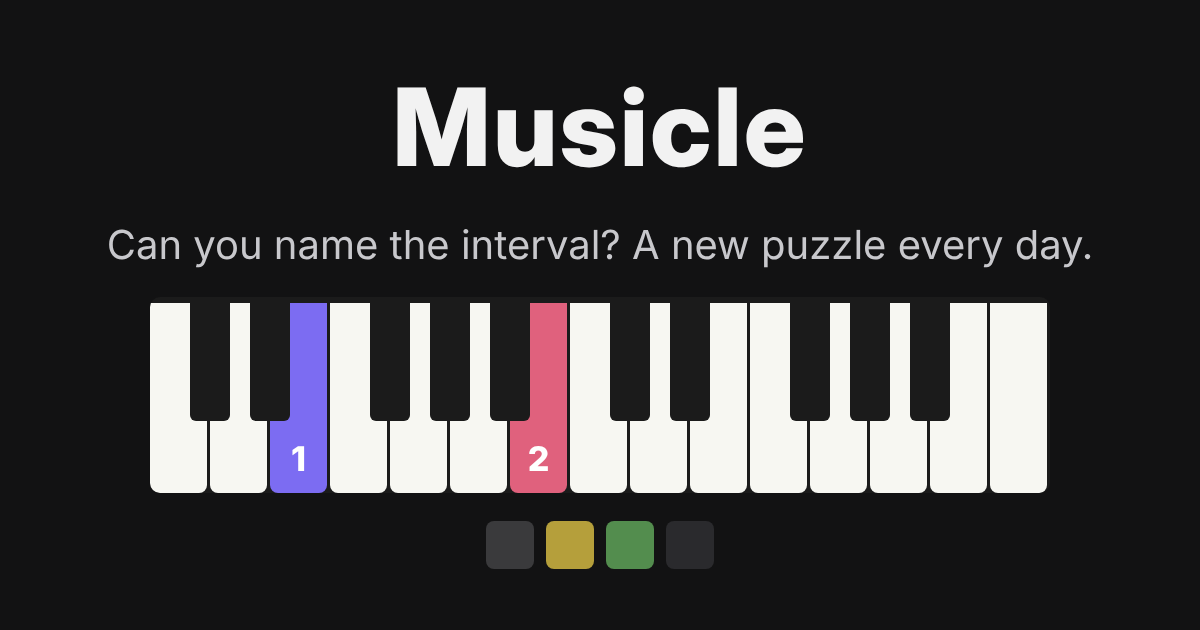
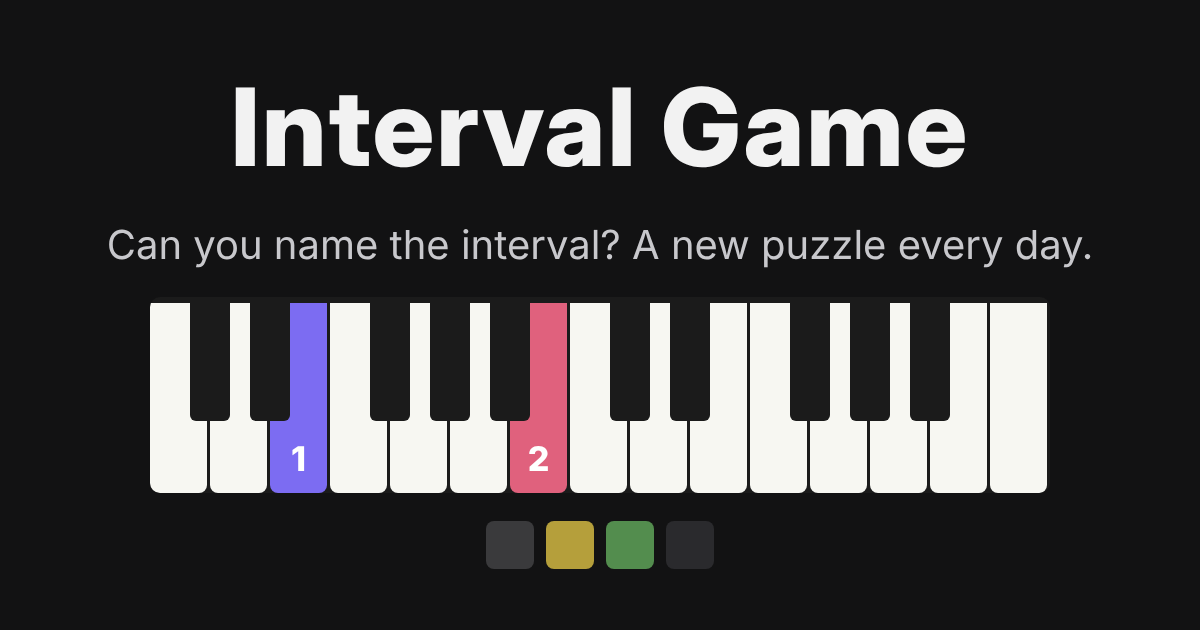
Rename the game to Interval Game
New name in the title, header, share text, manifest, link-preview image
and README. Saved progress moves from the musicle: to the intervalgame:
localStorage prefix automatically, and old transfer codes still import.
The header title now scales with the screen width to fit the longer name.

Claude-Session: https://claude.ai/code/session_01WpjxVCiMkAZwC4f3CwgJXi

Changed region(s): [[0.185, 0.1206, 0.8017, 0.2714]]

diff --git a/index.html b/index.html
@@ -3,21 +3,21 @@
   <head>
     <meta charset="utf-8" />
     <meta name="viewport" content="width=device-width, initial-scale=1, viewport-fit=cover" />
-    <title>Musicle · Daily ear training game</title>
+    <title>Interval Game · Daily ear training</title>
     <meta name="description" content="A daily ear training game: listen to two piano notes and name the interval, name the chord, or find the chord's degree in the key. New puzzles every day." />
     <link rel="canonical" href="https://intervalgame.com/" />
     <meta name="theme-color" content="#121213" media="(prefers-color-scheme: dark)" />
     <meta name="theme-color" content="#ffffff" media="(prefers-color-scheme: light)" />
 
     <meta property="og:type" content="website" />
-    <meta property="og:site_name" content="Musicle" />
-    <meta property="og:title" content="Musicle · Can you name the interval?" />
+    <meta property="og:site_name" content="Interval Game" />
+    <meta property="og:title" content="Interval Game · Can you name the interval?" />
     <meta property="og:description" content="A daily ear training game. Listen to two piano notes, name the interval in 4 guesses. New puzzle every day." />
     <meta property="og:url" content="https://intervalgame.com/" />
     <meta property="og:image" content="https://intervalgame.com/images/og.png" />
     <meta property="og:image:width" content="1200" />
     <meta property="og:image:height" content="630" />
-    <meta property="og:image:alt" content="Musicle: a piano keyboard with two highlighted keys and the question: what's the interval?" />
+    <meta property="og:image:alt" content="Interval Game: a piano keyboard with two highlighted keys and the question: what's the interval?" />
     <meta name="twitter:card" content="summary_large_image" />
 
     <link rel="icon" href="images/icon.svg" type="image/svg+xml" />
@@ -37,7 +37,7 @@
           <svg viewBox="0 0 24 24" width="22" height="22" aria-hidden="true"><path fill="currentColor" d="M19.4 13a7.6 7.6 0 0 0 0-2l2.1-1.6-2-3.5-2.5 1a7.4 7.4 0 0 0-1.7-1L15 3.3h-4l-.4 2.6a7.4 7.4 0 0 0-1.7 1l-2.5-1-2 3.5L6.6 11a7.6 7.6 0 0 0 0 2l-2.1 1.6 2 3.5 2.5-1a7.4 7.4 0 0 0 1.7 1l.4 2.6h4l.4-2.6a7.4 7.4 0 0 0 1.7-1l2.5 1 2-3.5ZM13 15.5a3.5 3.5 0 1 1 0-7 3.5 3.5 0 0 1 0 7Z" transform="translate(-1 0)" /></svg>
         </button>
       </div>
-      <h1>Musicle</h1>
+      <h1>Interval Game</h1>
       <div class="topbar-side end">
         <div class="language-menu">
           <button class="icon-button flag-button" id="language-button" aria-haspopup="menu" aria-expanded="false" data-i18n-aria="language" aria-label="Language"></button>

diff --git a/tests/games.test.js b/tests/games.test.js
@@ -105,11 +105,11 @@ test('game status and share text', () => {
   assert.equal(gameStatus(puzzle, [1, 4]), 'playing');
   assert.equal(gameStatus(puzzle, [1, 3]), 'won');
   assert.equal(gameStatus(puzzle, [1, 2, 4, 5]), 'lost');
-  assert.equal(shareText(puzzle, [12, 4, 3]), `Musicle #3 3/${MAX_ATTEMPTS}\n🎹 ⬛🟨🟩`);
-  assert.equal(shareText(puzzle, [1, 2, 4, 5]), `Musicle #3 X/${MAX_ATTEMPTS}\n🎹 ⬛⬛🟨⬛`);
-  assert.equal(shareText(puzzle, [4, 3], { hard: true, highContrast: true }), `Musicle #3 2/${MAX_ATTEMPTS}*\n🎹 🟦🟧`);
+  assert.equal(shareText(puzzle, [12, 4, 3]), `Interval Game #3 3/${MAX_ATTEMPTS}\n🎹 ⬛🟨🟩`);
+  assert.equal(shareText(puzzle, [1, 2, 4, 5]), `Interval Game #3 X/${MAX_ATTEMPTS}\n🎹 ⬛⬛🟨⬛`);
+  assert.equal(shareText(puzzle, [4, 3], { hard: true, highContrast: true }), `Interval Game #3 2/${MAX_ATTEMPTS}*\n🎹 🟦🟧`);
   const chord = { type: 'chords', day: 2, answer: 'major', root: 60, notes: [60, 64, 67] };
-  assert.equal(shareText(chord, ['major'], { title: 'Musicle Chords' }), `Musicle Chords #2 1/${MAX_ATTEMPTS}\n🎶 🟩`);
+  assert.equal(shareText(chord, ['major'], { title: 'Interval Game Chords' }), `Interval Game Chords #2 1/${MAX_ATTEMPTS}\n🎶 🟩`);
 });
 
 test('spellNotes writes notes the way the interval or chord is named', () => {
@@ -157,7 +157,7 @@ test('harmony: diatonic chords, sounds, hints and families', () => {
     { key: 'hintFamily', family: 'dominant' },
   ]);
   assert.equal(hintsFor({ ...puzzle, mode: 'minor' }, 1)[1].key, 'hintMinorKey');
-  assert.equal(shareText(puzzle, [5], { title: 'Musicle Harmony' }), `Musicle Harmony #1 1/${MAX_ATTEMPTS}\n🎼 🟩`);
+  assert.equal(shareText(puzzle, [5], { title: 'Interval Game Harmony' }), `Interval Game Harmony #1 1/${MAX_ATTEMPTS}\n🎼 🟩`);
 
   // The key is spelled the usual way: B♭ major (not A♯), with E♭ in its IV chord.
   const name = (spelling) => spelling.map(({ letter, accidental }) => `${'CDEFGAB'[letter]}${{ '-1': 'b', 0: '', 1: '#' }[accidental]}`).join(' ');

diff --git a/js/storage.js b/js/storage.js
@@ -1,6 +1,21 @@
 // Everything the game saves lives in localStorage under this prefix.
-const PREFIX = 'musicle:';
+const PREFIX = 'intervalgame:';
+// The game used to be called Musicle; its saved data and transfer codes still work.
+const OLD_PREFIX = 'musicle:';
 const CODE_VERSION = 'M1.';
+
+const renamedKey = (key) => (key.startsWith(OLD_PREFIX) ? PREFIX + key.slice(OLD_PREFIX.length) : key);
+
+// Runs once on load, before anything reads saved data.
+try {
+  for (const key of Object.keys(localStorage)) {
+    if (!key.startsWith(OLD_PREFIX)) continue;
+    if (localStorage.getItem(renamedKey(key)) === null) localStorage.setItem(renamedKey(key), localStorage.getItem(key));
+    localStorage.removeItem(key);
+  }
+} catch {
+  // No storage available.
+}
 
 export const storage = {
   get(key, fallback) {
@@ -51,7 +66,7 @@ export function importProgress(code) {
   if (!trimmed.startsWith(CODE_VERSION)) throw new Error('Unknown code');
   const bytes = Uint8Array.from(atob(trimmed.slice(CODE_VERSION.length)), (c) => c.charCodeAt(0));
   const data = JSON.parse(new TextDecoder().decode(bytes));
-  const entries = Object.entries(data);
+  const entries = Object.entries(data).map(([key, value]) => [renamedKey(key), value]);
   if (!entries.length || !entries.every(([key, value]) => key.startsWith(PREFIX) && typeof value === 'string')) {
     throw new Error('Invalid code');
   }

diff --git a/css/style.css b/css/style.css
@@ -98,8 +98,9 @@ a {
 
 .topbar h1 {
   margin: 0;
-  font-size: 1.9rem;
-  letter-spacing: 0.04em;
+  font-size: clamp(1.1rem, 5.2vw, 1.9rem);
+  letter-spacing: 0.02em;
+  white-space: nowrap;
 }
 
 .topbar-side {
@@ -968,10 +969,6 @@ kbd {
     padding-left: 12px;
     padding-right: 12px;
     gap: 6px;
-  }
-
-  .topbar h1 {
-    font-size: 1.5rem;
   }
 
   .topbar-side {

diff --git a/sw.js b/sw.js
@@ -2,7 +2,7 @@
 // copy when offline); scripts, styles, images and samples are cache-first.
 // Deploys add ?v=<commit> to scripts and styles, so new versions get new URLs.
 
-const CACHE = 'musicle-v1';
+const CACHE = 'intervalgame-v1';
 
 self.addEventListener('install', () => self.skipWaiting());
 

diff --git a/js/games.js b/js/games.js
@@ -1,6 +1,6 @@
 // Pure game logic (no DOM), so it can be tested in Node.
 
-export const APP_NAME = 'Musicle';
+export const APP_NAME = 'Interval Game';
 export const MAX_ATTEMPTS = 4;
 export const HARD_MODE_LISTENS = 3;
 

diff --git a/README.md b/README.md
@@ -1,4 +1,4 @@
-# Musicle 🎹
+# Interval Game 🎹
 
 A daily ear-training game in the style of Wordle: every day you hear two piano notes and have **4 guesses** to name the interval between them.
 
@@ -15,7 +15,7 @@ A daily ear-training game in the style of Wordle: every day you hear two piano n
 - **Accessibility**: high-contrast colors for color vision deficiency, keyboard shortcuts (Space, 1–9/0, arrows, Enter), respects the system's reduced-motion setting.
 - **Languages**: English (default) and Brazilian Portuguese, picked from the flag menu. All UI text lives in `js/i18n.js`; to add a language, add it to `STRINGS` and `LANGUAGES` (and its flag to `js/flags.js`). A test checks that every language has the same keys.
 - **Installable and offline**: web app manifest and a service worker (`sw.js`) that caches everything after the first visit.
-- **Progress transfer**: settings → copy a code and import it on another device. Everything is stored in `localStorage` under `musicle:`.
+- **Progress transfer**: settings → copy a code and import it on another device. Everything is stored in `localStorage` under `intervalgame:` (data saved under the old name, `musicle:`, is migrated automatically).
 - **Link previews**: Open Graph tags and `images/og.png`. Icons and the preview image are generated by `node scripts/render-images.cjs`.
 
 ## Running locally
@@ -49,6 +49,6 @@ Locally the service worker is off (so edits show up right away); add `?sw` to th
 
 ## Deploying
 
-The site is served by GitHub Pages from the `gh-pages` branch: https://yalves.github.io/musicle/
+The site is served by GitHub Pages from the `gh-pages` branch at https://intervalgame.com/ (the domain is set by the `CNAME` file).
 
 `.github/workflows/pages.yml` runs the tests on every push to the default branch and, if they pass, updates `gh-pages`, so the live site follows the default branch automatically.
